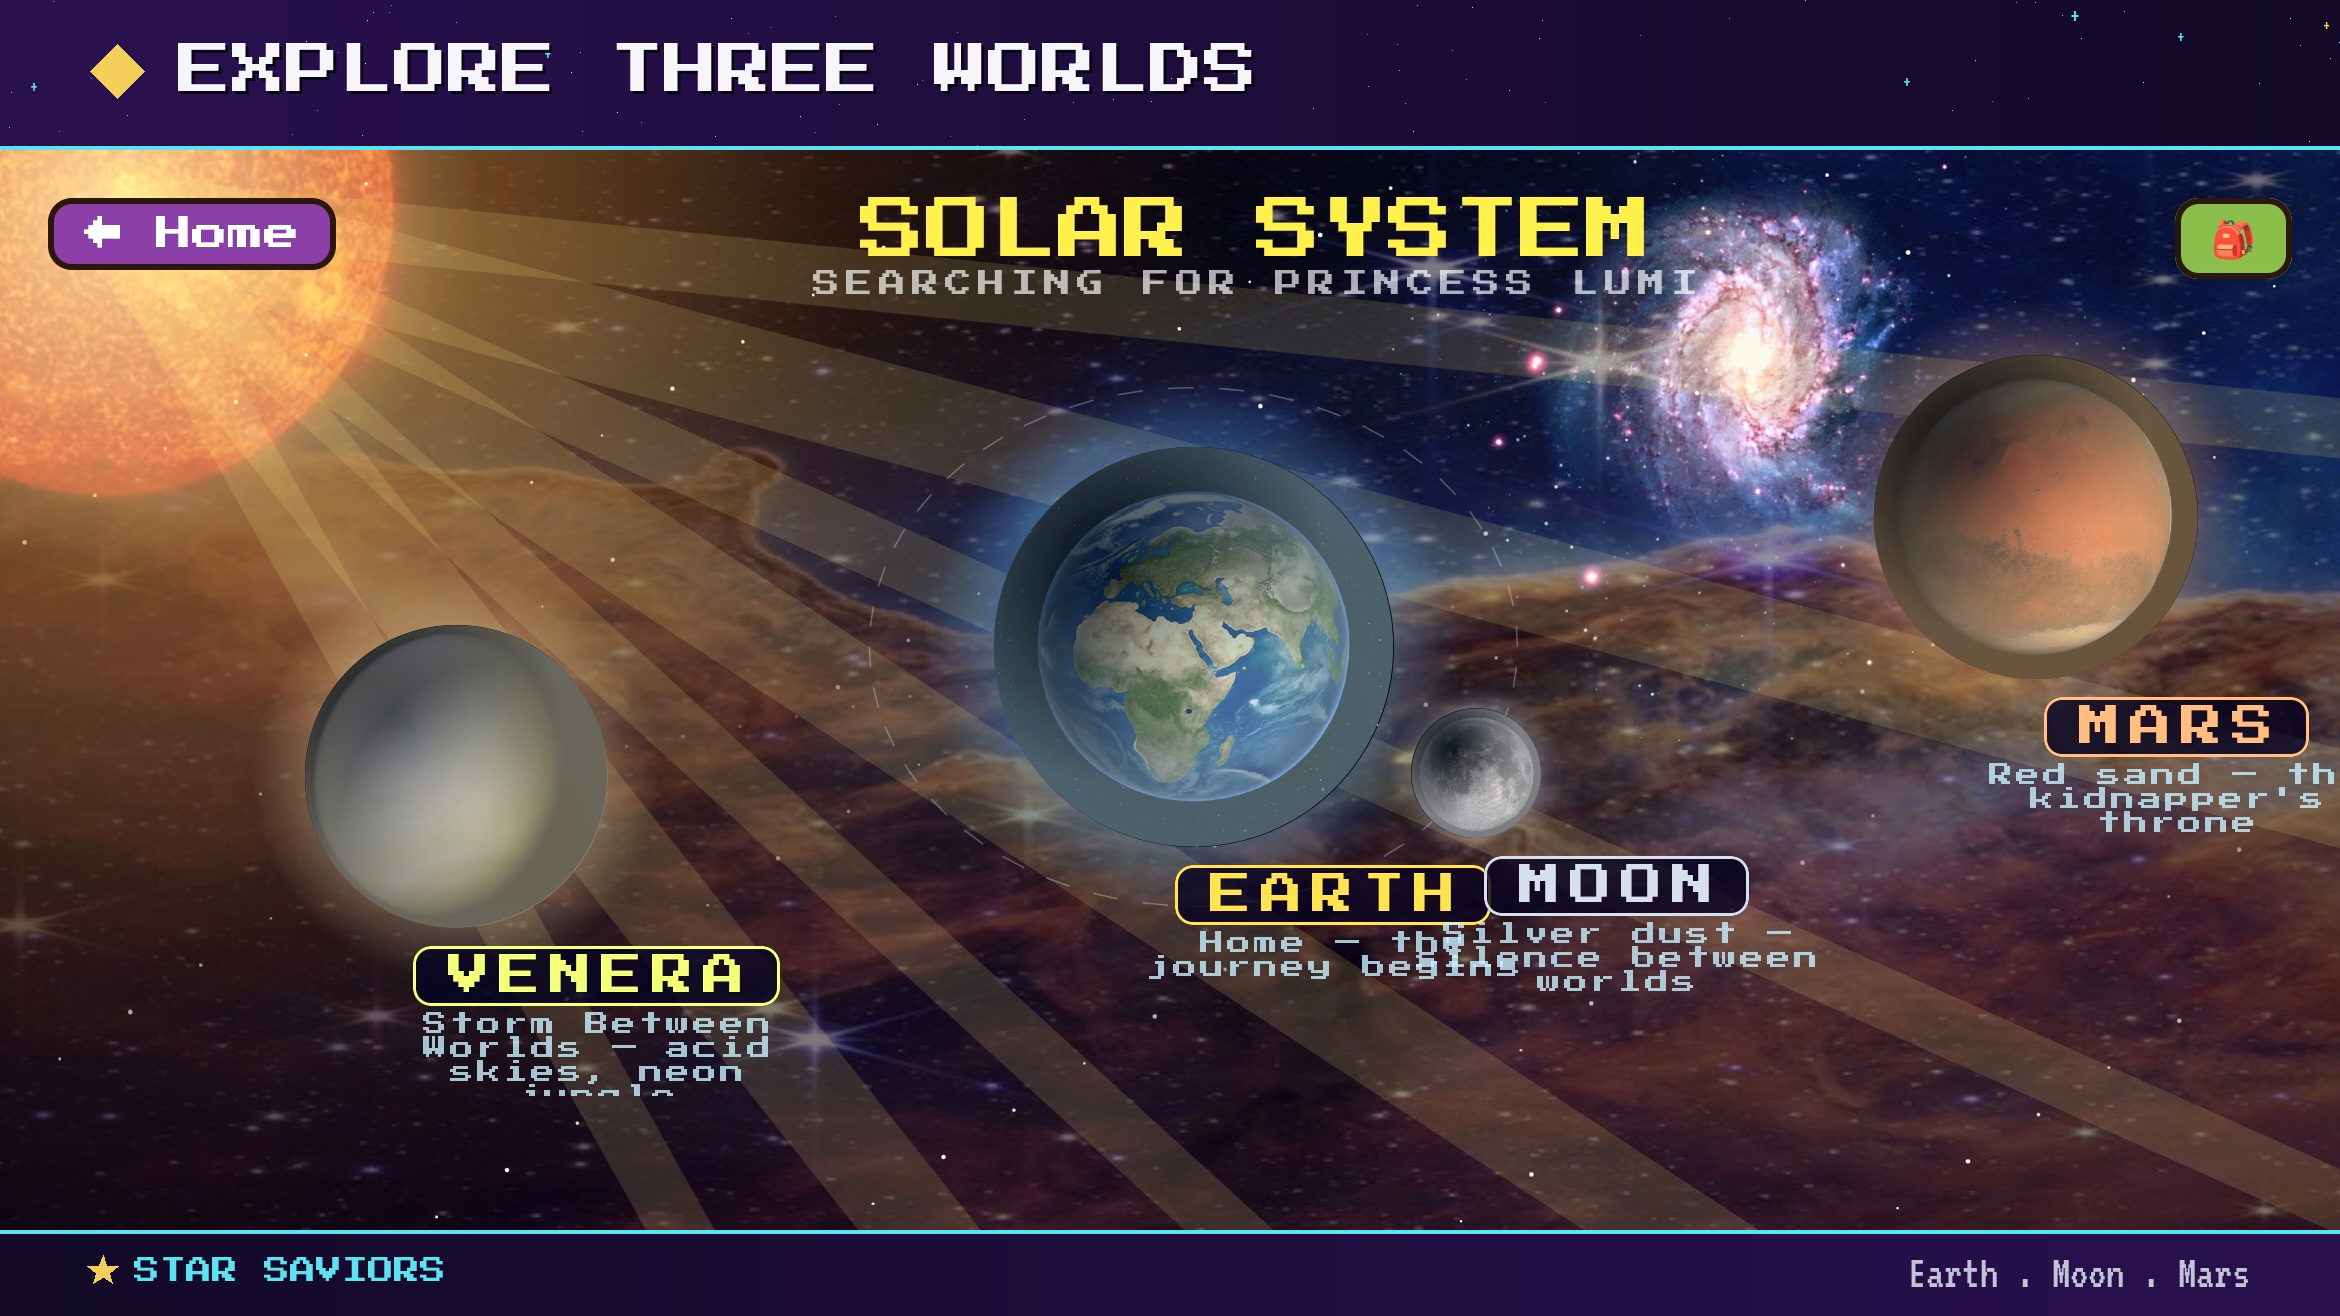
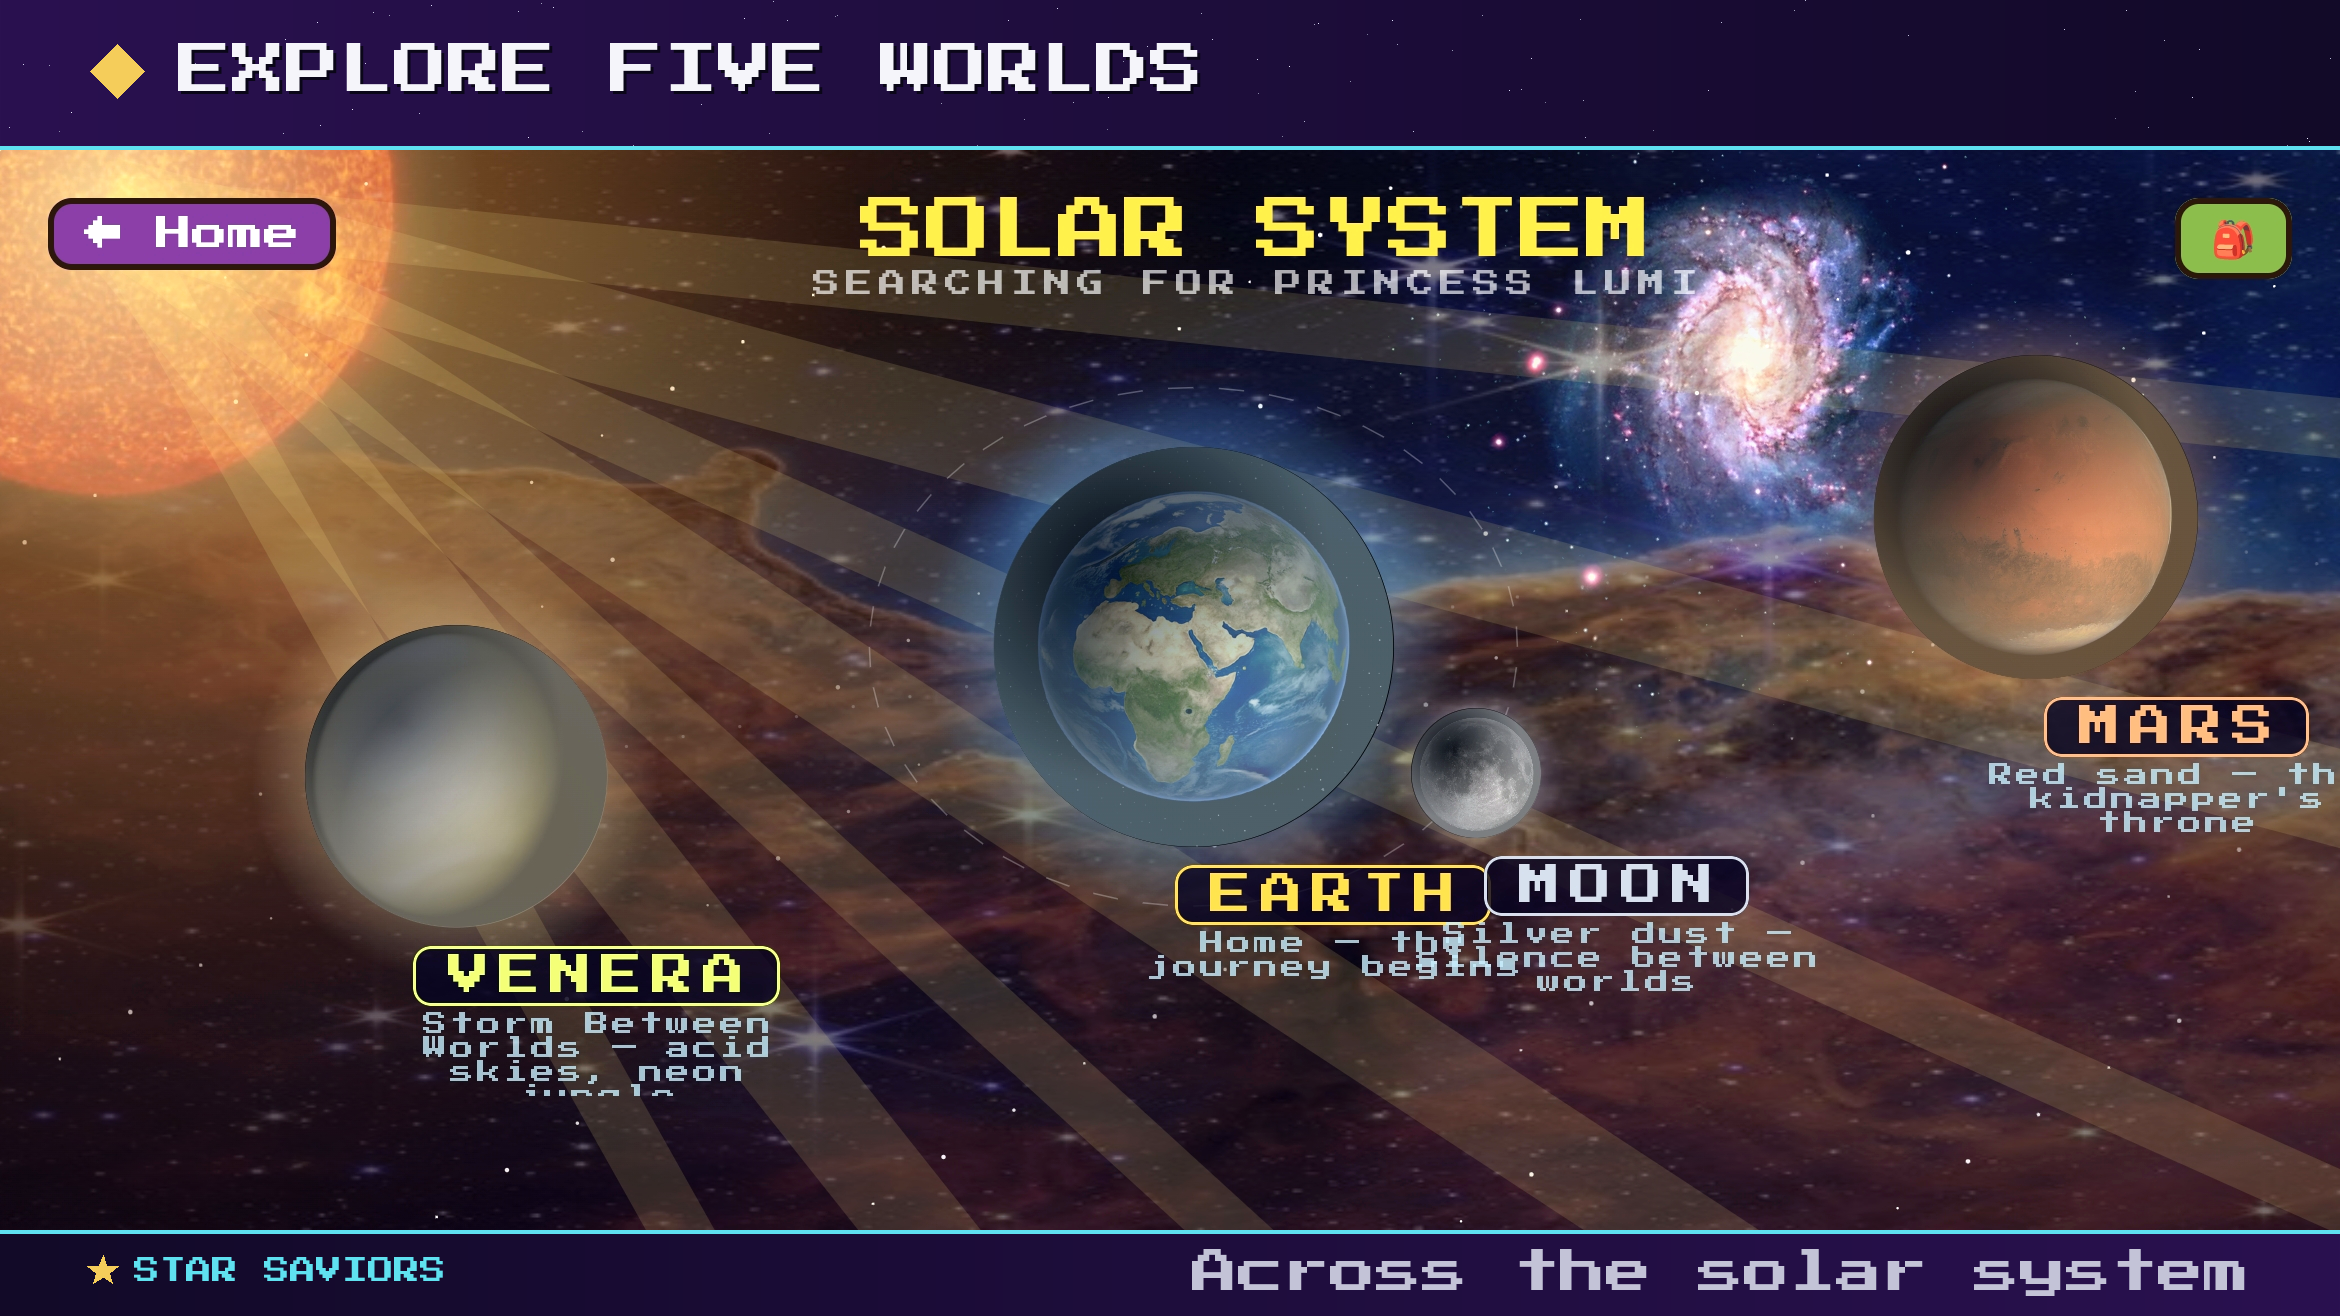
Correct: five worlds (Earth, Moon, Mars, Venus, Jupiter)

Changed region(s): [[0.2496, 0.0312, 0.5615, 0.0935], [0.6551, 0.9347, 0.9671, 0.997], [0.4991, 0.9347, 0.6239, 0.997]]

diff --git a/index.html b/index.html
@@ -70,7 +70,7 @@
   <h2>A <span class="em">cosmic</span> pixel adventure</h2>
   <p class="lead">Jump between worlds. Defeat the dragon. Rescue Princess Lumi.</p>
   <div class="grid">
-    <div class="feat"><div class="e">🪐</div><h3>Three Worlds</h3><p>Earth, Moon, and Mars — each with its own enemies, hazards, and signature bosses.</p></div>
+    <div class="feat"><div class="e">🪐</div><h3>Five Worlds</h3><p>Earth, Moon, Mars, Venus, and Jupiter — each with its own enemies, hazards, and signature bosses.</p></div>
     <div class="feat"><div class="e">🦸</div><h3>5 Heroes, 5 Super-powers</h3><p>Time-bending, ghost-dashing, shielding, glitching, and ranged combat — pick your fighter.</p></div>
     <div class="feat"><div class="e">⚔</div><h3>13 Enemies + Bosses</h3><p>Battle 13 enemy types, 6 rival heroes, 3 planet bosses, and the final dragon.</p></div>
     <div class="feat"><div class="e">🌟</div><h3>Daily Challenge</h3><p>A new gameplay modifier every day — Moon Gravity, Glass Cannon, Speed Arena.</p></div>
